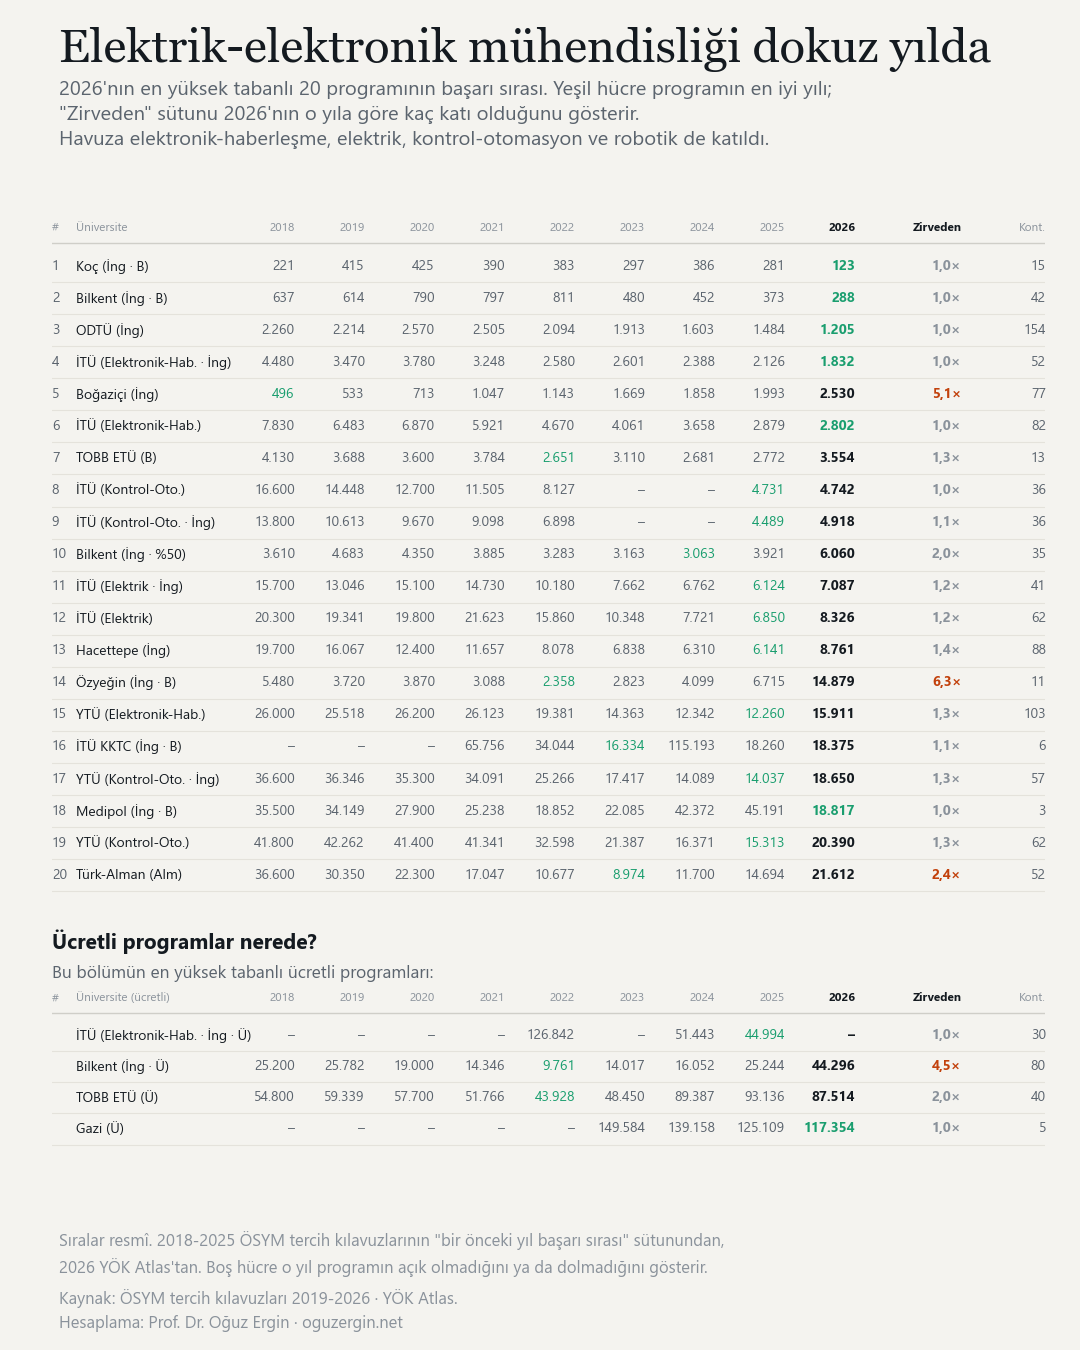
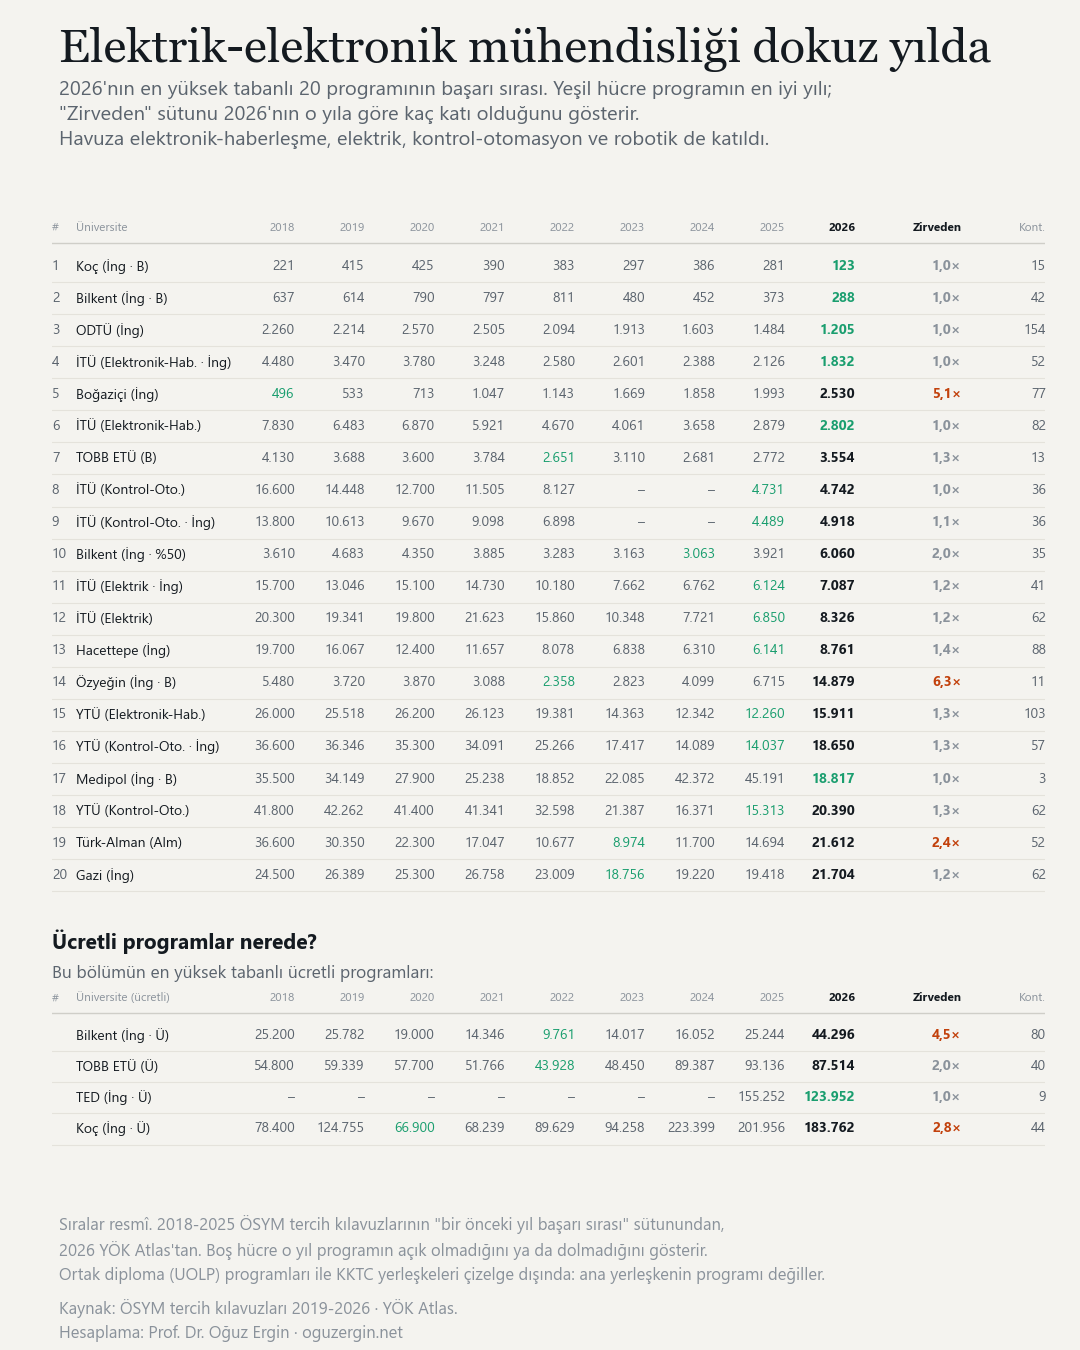
Sıra çizelgesinden ortak diploma ve KKTC yerleşkelerini çıkar, öbeklere simge koy
VERİ KUSURU. "Ücretli programlar nerede?" bloğunda Ankara Üniversitesi görünüyordu,
oysa Ankara Üniversitesi'nin ücretli programı yok. Satır, ÖSYM'nin adına "(Ücretli)"
eklediği Azerbaycan Teknik Üniversitesi ortak diploma programıydı. Aynı kusur dokuz
bölümün altısında vardı; işletmede dört satırın üçü ortak programdı. Ayrıca üniversitenin
anakara adıyla listelenen KKTC yerleşkeleri (İTÜ-KKTC, ODTÜ Kuzey Kıbrıs, ASBÜ Kuzey
Kıbrıs; 2026'da 92 satır) ana yerleşkeyle aynı kefeye giriyordu. İkisi de çizelge
dışına alındı, gerekçesi yöntem bölümüne ve görsellerin dipnotuna yazıldı. Kendi adında
KKTC geçen üniversiteler duruyor.

BOŞ SATIR. Piri Reis on yedi kontenjanının birini doldurmuş; ÖSYM dolmayan programa
başarı sırası atamadığı için satır dokuz yıl boyunca baştan sona çizgiliydi. Ücretli
bloğunda artık sırası olan programlar var. Bunun sonucunda Koç ve Özyeğin listeye girdi.

TIP SİMGESİ HİLAL OLDU. Haç Kızılhaç'ın işareti; ülkemizde sağlığın işareti Kızılay'ın
hilali.

ÖBEK SATIRLARINA SİMGE. On altı öbeğin her birine kendi simgesi ve kendi rengi.

ÖNBELLEK. Veri dosyaları düz adla çekiliyordu; bir düzeltme yayımlandığında daha önce
girmiş okur yeni sayfayı alıp eski JSON'u önbellekten okuyabiliyordu. Yayın betiği artık
adrese içeriklerin özetini damgalıyor.

diff --git a/index.html b/index.html
@@ -13,6 +13,11 @@
   /* Bolum renkleri: gozun bolumu tanimasi icin, dokuzu da birbirinden ayirt edilir. */
   --b1:#B23C0B; --b2:#8A6D1F; --b3:#2A78D6; --b4:#17708F; --b5:#5E4CA8;
   --b6:#137A55; --b7:#C2185B; --b8:#4A6572; --b9:#6B7280;
+  /* Obek renkleri: on alti obegin her birine bir ton. */
+  --o1:#C0392B; --o2:#C4551F; --o3:#A87813; --o4:#6E7A2E; --o5:#2E7D32;
+  --o6:#0E7C5A; --o7:#10808C; --o8:#4A6572; --o9:#2A78D6; --o10:#1E4E9C;
+  --o11:#4C46A8; --o12:#7A4FC7; --o13:#A0439E; --o14:#C2185B; --o15:#8A5A2B;
+  --o16:#7C7C76;
   --serif:ui-serif,Georgia,"Iowan Old Style","Times New Roman",serif;
   --sans:ui-sans-serif,system-ui,"Segoe UI",Roboto,sans-serif;
 }
@@ -21,13 +26,21 @@
   --rule:rgba(233,235,232,.15); --rule-soft:rgba(233,235,232,.07);
   --iyi:#22b481; --kotu:#f07440; --vurgu:#9085e9; --gri:#4E5257;
   --b1:#F07440; --b2:#D3AC4A; --b3:#5FA3E8; --b4:#4FA6C4; --b5:#9085E9;
-  --b6:#22B481; --b7:#EE6394; --b8:#8FA6B4; --b9:#9AA3AE;}}
+  --b6:#22B481; --b7:#EE6394; --b8:#8FA6B4; --b9:#9AA3AE;
+  --o1:#EF7062; --o2:#F07440; --o3:#D9A63C; --o4:#A8B457; --o5:#62BE67;
+  --o6:#22B481; --o7:#3FB6C4; --o8:#8FA6B4; --o9:#5FA3E8; --o10:#7A9FE8;
+  --o11:#9085E9; --o12:#B48CF0; --o13:#D585D3; --o14:#EE6394; --o15:#C99A6B;
+  --o16:#A5A59E;}}
 :root[data-tema="koyu"]{
   --paper:#0E1216; --card:#161B21; --ink:#E9EBE8; --ink-2:#A9B2BC; --ink-3:#79838E;
   --rule:rgba(233,235,232,.15); --rule-soft:rgba(233,235,232,.07);
   --iyi:#22b481; --kotu:#f07440; --vurgu:#9085e9; --gri:#4E5257;
   --b1:#F07440; --b2:#D3AC4A; --b3:#5FA3E8; --b4:#4FA6C4; --b5:#9085E9;
-  --b6:#22B481; --b7:#EE6394; --b8:#8FA6B4; --b9:#9AA3AE;}
+  --b6:#22B481; --b7:#EE6394; --b8:#8FA6B4; --b9:#9AA3AE;
+  --o1:#EF7062; --o2:#F07440; --o3:#D9A63C; --o4:#A8B457; --o5:#62BE67;
+  --o6:#22B481; --o7:#3FB6C4; --o8:#8FA6B4; --o9:#5FA3E8; --o10:#7A9FE8;
+  --o11:#9085E9; --o12:#B48CF0; --o13:#D585D3; --o14:#EE6394; --o15:#C99A6B;
+  --o16:#A5A59E;}
 *{box-sizing:border-box}
 html{scroll-behavior:smooth;scroll-padding-top:64px}
 body{margin:0;background:var(--paper);color:var(--ink);font-family:var(--sans);
@@ -140,6 +153,7 @@ td.dip{color:var(--iyi);font-weight:600}
 td.bos{color:var(--ink-3)}
 .sr{color:var(--ink-3);display:inline-block;min-width:1.9em}
 .alt{color:var(--ink-3);font-size:.85em}
+tbody th .ikon{width:17px;height:17px;vertical-align:-3.6px;margin-right:8px}
 
 /* ---- seçim düğmeleri ---- */
 .secim{display:flex;gap:6px;flex-wrap:wrap;margin:22px 0 0}
@@ -251,8 +265,9 @@ footer p{color:var(--ink-3);max-width:76ch}
       <g opacity=".55"><line x1="14.5" y1="3" x2="14.5" y2="16"/>
         <polyline points="11.6,13 14.5,16 17.4,13"/></g>
     </g></symbol>
-  <symbol id="i-tip" viewBox="0 0 20 20"><!-- hac -->
-    <path fill="currentColor" d="M8 2h4v6h6v4h-6v6H8v-6H2V8h6z"/></symbol>
+  <symbol id="i-tip" viewBox="0 0 20 20"><!-- hilal: saglik isareti Kizilay -->
+    <path fill="currentColor"
+      d="M13.7 2.6a8 8 0 1 0 0 14.8 6.8 6.8 0 1 1 0-14.8z"/></symbol>
   <symbol id="i-harita" viewBox="0 0 20 20"><!-- igne -->
     <path fill="none" stroke="currentColor" stroke-width="1.9" stroke-linejoin="round"
       d="M10 18s-6-6.6-6-10a6 6 0 1 1 12 0c0 3.4-6 10-6 10z"/>
@@ -265,6 +280,95 @@ footer p{color:var(--ink-3);max-width:76ch}
       <line x1="8.5" y1="15.5" x2="17.5" y2="15.5" opacity=".5"/>
       <polyline points="2.5,4.5 4,6 6.2,3"/><polyline points="2.5,10 4,11.5 6.2,8.5"/>
     </g></symbol>
+  <symbol id="o-gastronomi" viewBox="0 0 20 20"><!-- catal bicak -->
+    <g fill="none" stroke="currentColor" stroke-width="1.8" stroke-linecap="round"
+       stroke-linejoin="round">
+      <path d="M4.6 2.5v4.2a2.1 2.1 0 0 0 4.2 0V2.5"/><path d="M6.7 2.5v6.6"/>
+      <path d="M6.7 9.1v8.4"/>
+      <path d="M15.6 2.5c1.5 2.3 1.6 5.4.2 7.6h-2.1v7.4"/>
+    </g></symbol>
+  <symbol id="o-muhendislik" viewBox="0 0 20 20"><!-- somun -->
+    <g fill="none" stroke="currentColor" stroke-width="1.8" stroke-linejoin="round">
+      <path d="M10 2.2 16.8 6v8L10 17.8 3.2 14V6z"/><circle cx="10" cy="10" r="3"/>
+    </g></symbol>
+  <symbol id="o-ogretmenlik" viewBox="0 0 20 20"><!-- mezuniyet kepi -->
+    <g fill="none" stroke="currentColor" stroke-width="1.8" stroke-linejoin="round"
+       stroke-linecap="round">
+      <path d="M10 3 18.4 6.9 10 10.8 1.6 6.9z"/>
+      <path d="M5.2 8.7v4.1c0 1.6 2.2 2.7 4.8 2.7s4.8-1.1 4.8-2.7V8.7"/>
+    </g></symbol>
+  <symbol id="o-ilahiyat" viewBox="0 0 20 20"><!-- kemer: yapinin kendisi, mezhep isareti degil -->
+    <g fill="none" stroke="currentColor" stroke-width="1.8" stroke-linejoin="round"
+       stroke-linecap="round">
+      <path d="M4.3 17.3V9a5.7 5.7 0 0 1 11.4 0v8.3"/><path d="M2.3 17.3h15.4"/>
+    </g></symbol>
+  <symbol id="o-isletme" viewBox="0 0 20 20"><!-- yukselen sutunlar -->
+    <g fill="currentColor">
+      <rect x="2.6" y="11.6" width="3.8" height="5.8" rx="1.1" opacity=".5"/>
+      <rect x="8.1" y="8" width="3.8" height="9.4" rx="1.1" opacity=".75"/>
+      <rect x="13.6" y="3.4" width="3.8" height="14" rx="1.1"/>
+    </g></symbol>
+  <symbol id="o-saglik" viewBox="0 0 20 20"><!-- hilal -->
+    <path fill="currentColor" d="M13.7 2.6a8 8 0 1 0 0 14.8 6.8 6.8 0 1 1 0-14.8z"/></symbol>
+  <symbol id="o-medya" viewBox="0 0 20 20"><!-- yayin -->
+    <circle cx="10" cy="10" r="2.2" fill="currentColor"/>
+    <g fill="none" stroke="currentColor" stroke-width="1.8" stroke-linecap="round">
+      <path d="M6.1 6.1a5.5 5.5 0 0 0 0 7.8"/><path d="M13.9 13.9a5.5 5.5 0 0 0 0-7.8"/>
+      <g opacity=".5"><path d="M3.3 3.3a9.5 9.5 0 0 0 0 13.4"/>
+        <path d="M16.7 16.7a9.5 9.5 0 0 0 0-13.4"/></g>
+    </g></symbol>
+  <symbol id="o-pilotaj" viewBox="0 0 20 20"><!-- ucak -->
+    <path fill="currentColor" d="M10 1.8c.95 0 1.6 1.1 1.6 2.6v3.3l6.6 3.9v2.2l-6.6-2v3.5l2.2
+      1.6v1.5L10 17.5l-3.8.9v-1.5l2.2-1.6v-3.5l-6.6 2v-2.2l6.6-3.9V4.4c0-1.5.65-2.6 1.6-2.6z"/>
+    </symbol>
+  <symbol id="o-bilisim" viewBox="0 0 20 20"><!-- yonga -->
+    <g fill="none" stroke="currentColor" stroke-width="1.8" stroke-linejoin="round"
+       stroke-linecap="round">
+      <rect x="5.4" y="5.4" width="9.2" height="9.2" rx="1.7"/>
+      <path d="M8.2 2.4v3M11.8 2.4v3M8.2 14.6v3M11.8 14.6v3M2.4 8.2h3M2.4 11.8h3M14.6
+        8.2h3M14.6 11.8h3"/>
+    </g>
+    <rect x="8.4" y="8.4" width="3.2" height="3.2" rx=".8" fill="currentColor"/></symbol>
+  <symbol id="o-siyaset" viewBox="0 0 20 20"><!-- kure -->
+    <g fill="none" stroke="currentColor" stroke-width="1.8">
+      <circle cx="10" cy="10" r="7.6"/><ellipse cx="10" cy="10" rx="3.4" ry="7.6"/>
+      <path d="M2.4 10h15.2"/>
+    </g></symbol>
+  <symbol id="o-hukuk" viewBox="0 0 20 20"><!-- terazi -->
+    <g fill="none" stroke="currentColor" stroke-width="1.7" stroke-linecap="round"
+       stroke-linejoin="round">
+      <path d="M10 3.4v13.2M3.6 5.4h12.8M6.4 17.4h7.2"/>
+      <path d="M1.6 10.4 3.6 5.4l2 5z"/><path d="M14.4 10.4l2-5 2 5z"/>
+    </g></symbol>
+  <symbol id="o-temelbilim" viewBox="0 0 20 20"><!-- erlenmayer -->
+    <g fill="none" stroke="currentColor" stroke-width="1.8" stroke-linecap="round"
+       stroke-linejoin="round">
+      <path d="M7.4 2.6h5.2"/><path d="M8.4 2.6v5.2L3.3 16.2a1 1 0 0 0 .9 1.5h11.6a1 1 0 0 0
+        .9-1.5L11.6 7.8V2.6"/>
+    </g></symbol>
+  <symbol id="o-psikoloji" viewBox="0 0 20 20"><!-- profil -->
+    <g fill="none" stroke="currentColor" stroke-width="1.8" stroke-linecap="round"
+       stroke-linejoin="round">
+      <path d="M6.6 17.4v-3.1A6.7 6.7 0 1 1 16.4 8.7l1.2 2.7a.9.9 0 0 1-.8 1.3h-1.5v1.7a1.6
+        1.6 0 0 1-1.6 1.6h-1.9v1.4"/>
+    </g></symbol>
+  <symbol id="o-yapayzeka" viewBox="0 0 20 20"><!-- dugum agi -->
+    <g fill="none" stroke="currentColor" stroke-width="1.5" opacity=".65">
+      <path d="M4.4 5.2 10.6 10M4.4 14.8 10.6 10M10.6 10 16 6.4M10.6 10 16 13.6"/></g>
+    <g fill="currentColor">
+      <circle cx="3.6" cy="4.8" r="2.1"/><circle cx="3.6" cy="15.2" r="2.1"/>
+      <circle cx="10.6" cy="10" r="2.3"/><circle cx="16.6" cy="6" r="1.8"/>
+      <circle cx="16.6" cy="14" r="1.8"/></g></symbol>
+  <symbol id="o-tarih" viewBox="0 0 20 20"><!-- acik kitap -->
+    <g fill="none" stroke="currentColor" stroke-width="1.7" stroke-linecap="round"
+       stroke-linejoin="round">
+      <path d="M10 5.6C8 4 5 3.5 2.4 3.9v10.4C5 13.9 8 14.4 10 16"/>
+      <path d="M10 5.6C12 4 15 3.5 17.6 3.9v10.4C15 13.9 12 14.4 10 16"/>
+      <path d="M10 5.6V16"/>
+    </g></symbol>
+  <symbol id="o-oteki" viewBox="0 0 20 20"><!-- uc nokta -->
+    <g fill="currentColor"><circle cx="4" cy="10" r="1.9"/><circle cx="10" cy="10" r="1.9"/>
+      <circle cx="16" cy="10" r="1.9"/></g></symbol>
 </defs></svg>
 
 <button id="tema" aria-label="Temayı değiştir">tema</button>
@@ -498,6 +602,14 @@ footer p{color:var(--ink-3);max-width:76ch}
   <p><strong>Başarı sırası.</strong> 2018-2025 için ÖSYM tercih kılavuzlarının Tablo-4'ündeki
   "bir önceki yıl başarı sırası" sütunu; kılavuz N yılı, N−1 yılının sırasını taşıyor.
   2026 için YÖK Atlas. ÖSYM 2026 sırasını henüz yayımlamadı, 2027 kılavuzuyla gelecek.</p>
+  <p><strong>Sıra çizelgesinin dışında bıraktıklarımız.</strong> Ortak diploma programları
+  (UOLP) ile KKTC yerleşkeleri, üniversitenin kendi adıyla listelendikleri hâlde ana
+  yerleşkedeki programla aynı şey değil. ÖSYM ortak programların adına "(Ücretli)" eklediği
+  için bir devlet üniversitesinin ortak programı vakıf üniversitelerinin ücretli koluyla aynı
+  çizelgeye düşüyordu; 2026'da 92 satır da anakara adıyla listelenen bir KKTC yerleşkesine
+  ait. İkisi de çıkarıldı. Kendi adında KKTC geçen üniversiteler duruyor. Ücretli bloğunda
+  ayrıca ÖSYM'nin başarı sırası vermediği programlar yok: kontenjanını dolduramayan programa
+  sıra atanmıyor, satır dokuz yıl boyunca boş çiziliyordu.</p>
   <p><strong>Hekim sayıları.</strong> T.C. Sağlık Bakanlığı, Sağlık İstatistikleri Yıllığı 2024;
   hekim Tablo 10.12, nüfus Tablo 1.3. İkisi de aynı yıllıkta olduğu için kişi başı oran iç
   tutarlı. Hekim sayısı uzman, pratisyen ve asistan hekimin toplamı, tüm sektörler.
@@ -566,8 +678,30 @@ function ilk100(c){
 }
 
 /* ---------- 2 · öbek ---------- */
+// Obek adi -> [simge, renk numarasi]. Ad verinin kendisinden geliyor; listede olmayan bir ad
+// cikarsa gri "oteki" simgesine dusuyor ve konsola yaziyor. Sessizce dusmesin, yeni bir obek
+// eklendiginde fark edilsin.
+const OBEK_IK = {
+  "Gastronomi":["gastronomi",1], "Öteki mühendislikler":["muhendislik",2],
+  "Öğretmenlik":["ogretmenlik",3], "İlahiyat":["ilahiyat",4],
+  "İşletme ve ekonomi":["isletme",5], "Sağlık":["saglik",6],
+  "İletişim ve medya":["medya",7], "Pilotaj":["pilotaj",8],
+  "Bilişim":["bilisim",9], "Siyaset ve UI":["siyaset",10],
+  "Hukuk":["hukuk",11], "Temel bilimler":["temelbilim",12],
+  "Psikoloji":["psikoloji",13], "Yapay zeka ortak programı":["yapayzeka",14],
+  "Tarih ve edebiyat":["tarih",15], "Öteki":["oteki",16]};
+const uyarilan = new Set();
+function obek_ikon(ad){
+  let k = OBEK_IK[ad];
+  if(!k){
+    if(!uyarilan.has(ad)){ uyarilan.add(ad); console.warn("Simgesiz öbek: " + ad); }
+    k = OBEK_IK["Öteki"];
+  }
+  return `<svg class="ikon" style="--br:var(--o${k[1]})" aria-hidden="true">`
+       + `<use href="#o-${k[0]}"/></svg>`;
+}
 function obek(c){
-  const gov = c.obek.map(o => "<tr><th>" + esc(o.ad) + "</th>"
+  const gov = c.obek.map(o => "<tr><th>" + obek_ikon(o.ad) + esc(o.ad) + "</th>"
     + o.program.map((p,i) =>
         `<td>${p}<br><span class="alt">${tr(o.kontenjan[i])}</span></td>`).join("")
     + "</tr>").join("");
@@ -963,16 +1097,21 @@ function haritaCiz(o){
     + " İlin üzerine gelince değeri çıkıyor.";
 }
 
+// Veri dosyalarinin surumu. Yayin betigi (yayin_hazirla.py) bu satiri iceriklerin ozetiyle
+// degistiriyor; bir duzeltme yayimlandiginda okurun tarayicisi eski JSON'u onbellekten
+// okumasin. Yerelde bos kaliyor, sunucu zaten taze veriyor.
+const SURUM = "?v=c71cda0c80";
+
 async function basla(){
   [D, B, A, G, H] = await Promise.all([
-    fetch("veri/cizelge.json").then(r => r.json()),
-    fetch("veri/bump.json").then(r => r.json()),
-    fetch("veri/bolum.json").then(r => r.json()),
-    fetch("veri/degisim.json").then(r => r.json()),
-    fetch("veri/harita.json").then(r => r.json()),
+    fetch("veri/cizelge.json" + SURUM).then(r => r.json()),
+    fetch("veri/bump.json" + SURUM).then(r => r.json()),
+    fetch("veri/bolum.json" + SURUM).then(r => r.json()),
+    fetch("veri/degisim.json" + SURUM).then(r => r.json()),
+    fetch("veri/harita.json" + SURUM).then(r => r.json()),
   ]);
   YIL = D.yil;
-  const o = await (await fetch("veri/ozet.json")).json();
+  const o = await (await fetch("veri/ozet.json" + SURUM)).json();
   document.getElementById("ozet").innerHTML = [
     ["Lisans programı", tr(o.program)],
     ["2026 kontenjanı", tr(o.kontenjan)],
